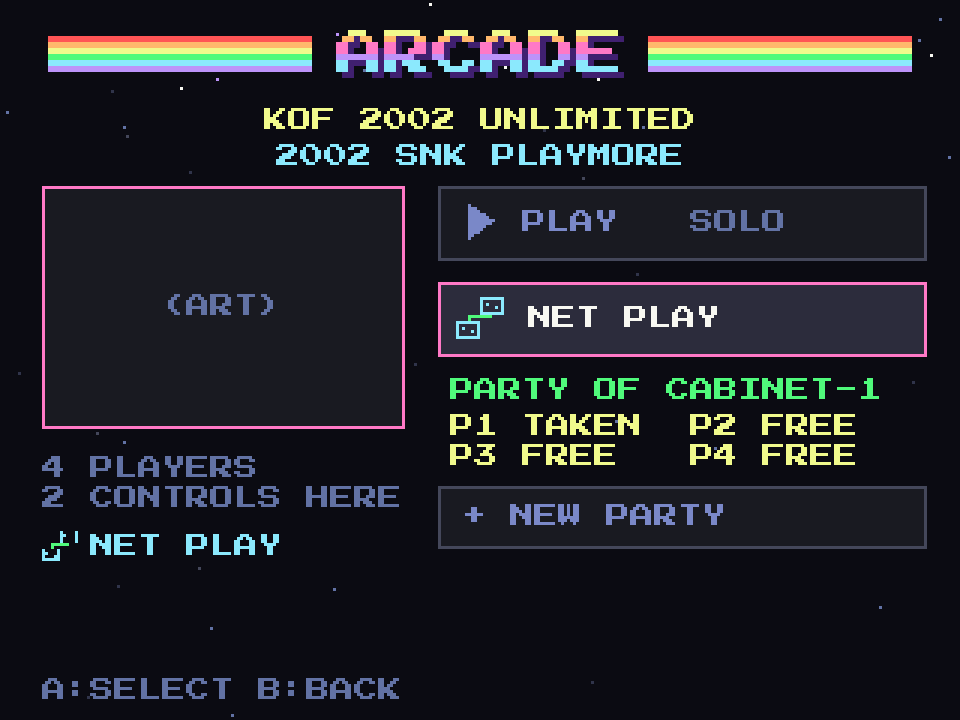
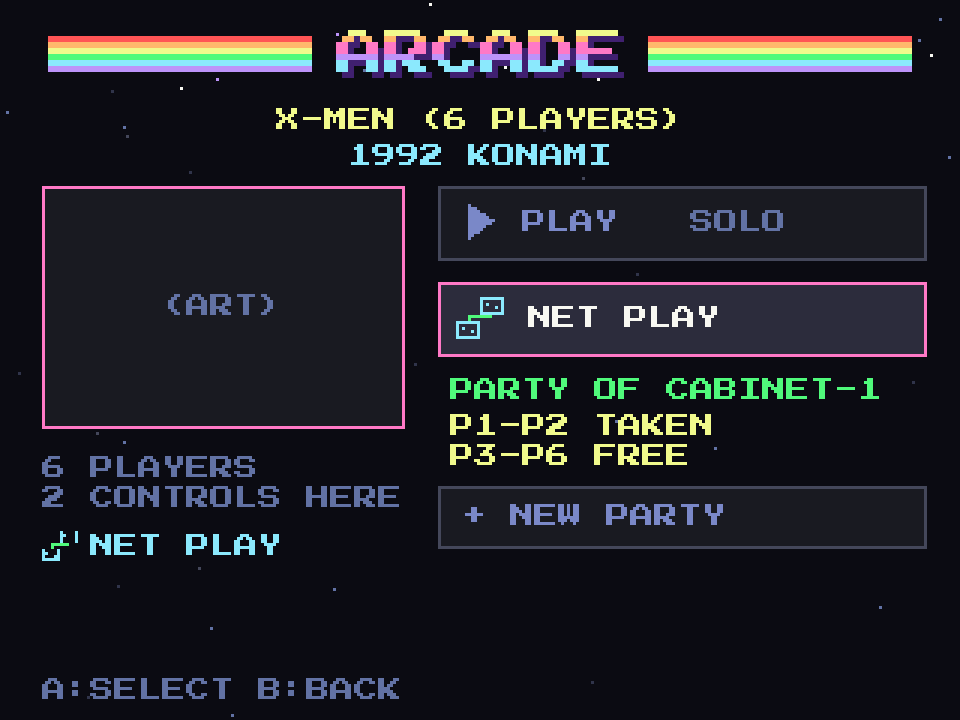
Link frontend mock-ups: use the six-player X-Men as the net play example
KOF 2002 is a two-player game and was a wrong example. The party screen now
shows six slots and a cabinet with two controls taking a pair of them.

Changed region(s): [[0.25, 0.1528, 0.7188, 0.2444], [0.5312, 0.55, 0.9062, 0.6722], [0.0312, 0.6417, 0.0625, 0.6722]]

diff --git a/tools/link-tests/frontend-mockups.py b/tools/link-tests/frontend-mockups.py
@@ -161,7 +161,7 @@ def list_screen(band):
     cv.d.line([(14, y)] + [(190, y)], fill=LINE)
     y += 8
     rows = [("1944: THE LOOP MAST", None), ("3 COUNT BOUT", None), ("AEROFIGHTERS 2", None), ("SCUD RACE", "link"),
-            ("SEGA RALLY", "link"), ("KOF 2002 UNLIMITED", "net"), ("ALIEN STORM", None)]
+            ("SEGA RALLY", "link"), ("X-MEN (6 PLAYERS)", "net"), ("ALIEN STORM", None)]
     for name, kind in rows:
         sel = name == "SCUD RACE"
         if kind == "link":
@@ -186,7 +186,7 @@ def list_screen(band):
 def grid_screen(band):
     cv = Canvas(band)
     tiles = [(26, 38), (116, 38), (206, 38), (26, 120), (116, 120), (206, 120)]
-    names = ["PUZZLE BOBBLE", "SCUD RACE", "SF2 TOURNAMENT", "ALIEN STORM", "KOF 2002", "SEGA RALLY"]
+    names = ["PUZZLE BOBBLE", "SCUD RACE", "SF2 TOURNAMENT", "ALIEN STORM", "X-MEN 6P", "SEGA RALLY"]
     kinds = [None, "link", "linklive", None, "net", "link"]
     for (x, y), name, kind in zip(tiles, names, kinds):
         cv.box(x, y, x + 80, y + 70, fill=BG_DEEP, outline=LINE)
@@ -252,11 +252,11 @@ def options_screen(band, joined):
 def options_netplay_screen(band):
     """A game with more players than this cabinet has controls: play here, or join a party."""
     cv = Canvas(band)
-    cv.center(36, "KOF 2002 UNLIMITED", YELLOW)
-    cv.center(48, "2002 SNK PLAYMORE", CYAN)
+    cv.center(36, "X-MEN (6 PLAYERS)", YELLOW)
+    cv.center(48, "1992 KONAMI", CYAN)
     cv.box(14, 62, 134, 142, fill=BG_DEEP, outline=PINK)
     cv.center(98, "(ART)", COMMENT, 14, 134)
-    cv.text(14, 152, "4 PLAYERS", COMMENT)
+    cv.text(14, 152, "6 PLAYERS", COMMENT)
     cv.text(14, 162, "2 CONTROLS HERE", COMMENT)
     cv.paste_icon(pads(True).resize((12, 12), Image.NEAREST), 14, 176)
     cv.text(30, 178, "NET PLAY", CYAN)
@@ -269,8 +269,8 @@ def options_netplay_screen(band):
     cv.paste_icon(pads(True), 152, 98)
     cv.text(176, 102, "NET PLAY", FG)
     cv.text(150, 126, "PARTY OF CABINET-1", GREEN)
-    cv.text(150, 138, "P1 TAKEN  P2 FREE", YELLOW)
-    cv.text(150, 148, "P3 FREE   P4 FREE", YELLOW)
+    cv.text(150, 138, "P1-P2 TAKEN", YELLOW)
+    cv.text(150, 148, "P3-P6 FREE", YELLOW)
     cv.box(146, 162, 308, 182, fill=BG_DEEP, outline=LINE)
     cv.text(154, 168, "+ NEW PARTY", LIST_TEXT)
     return cv
@@ -305,23 +305,24 @@ def lobby_screen(band, flags, starting=False):
 
 def netplay_screen(band):
     cv = Canvas(band)
-    cv.center(36, "KOF 2002 UNLIMITED", YELLOW)
-    cv.paste_icon(pads(True), 148, 48)
-    cv.center(68, "NET PLAY", FG)
-    cv.center(82, "THIS GAME HAS 4 PLAYERS. THIS", COMMENT)
-    cv.center(92, "CABINET HAS 2 CONTROLS", COMMENT)
-    cv.text(26, 112, "PARTY OF CABINET-1", CYAN)
-    rows = [("P1", "CABINET-1 (HOST)", True), ("P2", "FREE", False), ("P3", "FREE", False), ("P4", "FREE", False)]
-    y = 128
+    cv.center(36, "X-MEN (6 PLAYERS)", YELLOW)
+    cv.paste_icon(pads(True), 148, 46)
+    cv.center(66, "NET PLAY", FG)
+    cv.center(80, "THIS GAME HAS 6 PLAYERS.", COMMENT)
+    cv.center(90, "THIS CABINET HAS 2 CONTROLS", COMMENT)
+    cv.text(26, 104, "PARTY OF CABINET-1", CYAN)
+    rows = [("P1", "CABINET-1 (HOST)", True), ("P2", "CABINET-1 (HOST)", True), ("P3", "FREE", False),
+            ("P4", "FREE", False), ("P5", "FREE", False), ("P6", "FREE", False)]
+    y = 118
     for i, (p, who, taken) in enumerate(rows):
-        sel = i == 2
-        cv.box(26, y - 3, 294, y + 10, fill=(0x2c, 0x2c, 0x3c) if sel else BG_DEEP, outline=PINK if sel else LINE)
+        sel = i in (2, 3)   # two controls here: the guest takes a pair of slots
+        cv.box(26, y - 2, 294, y + 10, fill=(0x2c, 0x2c, 0x3c) if sel else BG_DEEP, outline=PINK if sel else LINE)
         cv.text(34, y, p, GREEN if taken else FG)
         cv.text(70, y, who, FG if taken else (YELLOW if sel else COMMENT))
         if sel:
             cv.text(238, y, "< YOU", PINK)
-        y += 17
-    cv.text(26, 202, "PICK A FREE SLOT TO JOIN", COMMENT)
+        y += 15
+    cv.text(26, 210, "THIS CABINET TAKES 2 SLOTS", COMMENT)
     cv.text(26, 226, "A: JOIN   B: BACK", COMMENT)
     return cv
 

diff --git a/docs/research/link-frontend-plan.md b/docs/research/link-frontend-plan.md
@@ -97,7 +97,8 @@ A game with more players than this cabinet has controls gets the same window wit
 ![Net play](link-frontend-mockups/07-netplay-party.png)
 
 - For a game with more players than this cabinet's controls. The user joins another cabinet's party and takes a free slot (P2, P3 and so on). The host sees the slots fill.
-- Net play uses RetroArch's netplay with an FBNeo core, and it is the only way for fighting games of two players or more to be played across cabinets. It does not link the boards: the Tournament Battle's eight-player bracket still needs its four-cabinet link.
+- The example is X-Men (6 Players, Konami 1992), a six-player game. Each cabinet can take as many slots as it has controls, so a cabinet with two controls takes a pair.
+- Net play needs an emulator core that supports netplay (RetroArch), so which games get it depends on the cores. It does not link boards: the Tournament Battle's eight-player bracket still needs its four-cabinet link.
 
 ### Missing game files
 
